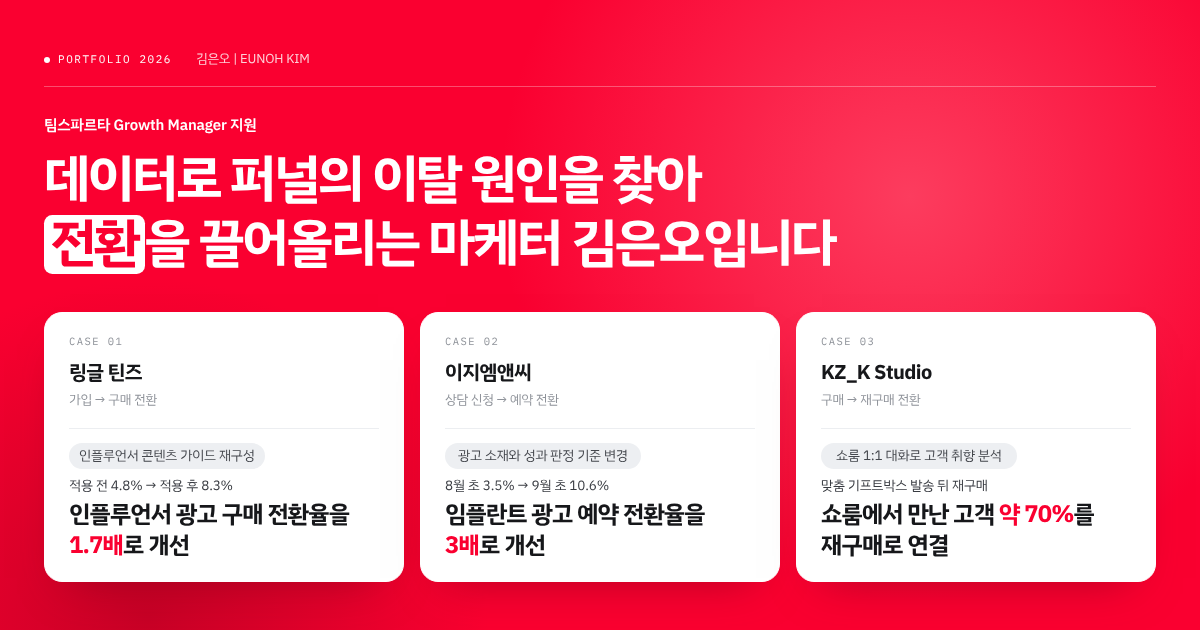
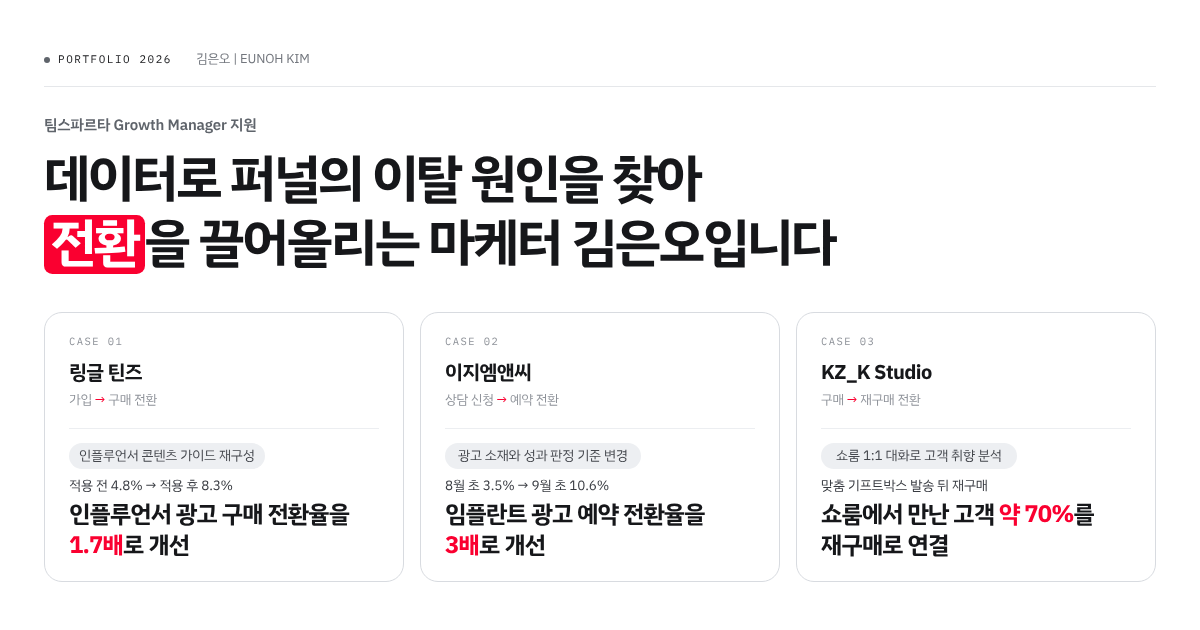
팀스파르타 포폴 색 정리: 하이라이트 변수 --hl 한 곳, 나머지 중립
- --hl(#FA0030, 첨부 로고 값) 새로 만들고 5곳에만 사용: 표지 '전환' 마커, 표지 타일 큰 숫자와 퍼널 줄 화살표, A장 퍼널 끊긴 구간, B장 결과 큰 숫자, 전후 막대 '개선 후'
- --blue와 --blue-deep은 #16171a, --blue-tint는 #f5f6f8, .obs 구분선 회색
- 표지와 마지막 장 흰 바탕, 빛 번짐 삭제, 알약과 타일과 연락처 카드는 연한 회색 테두리, 이메일 복사 버튼 검정
- 진행 바, 섹션 번호, 어바웃 점 진한 회색, CASE 칩 흰 바탕 검정 글씨, 스테퍼 H 원 회색, To-be 칸 검정 1.5px, Why 알약 회색, 구조도 새 판정 검정 굵게
- Projects 제목, CASE 02 가설 마침표, 마지막 장 제목 줄 삭제, og.png 다시 뽑음

Claude-Session: https://claude.ai/code/session_013smscFGWWBPRpsfkpqHfav

diff --git a/portfolio-teamsparta/index.html b/portfolio-teamsparta/index.html
@@ -20,7 +20,11 @@
 :root{
   color-scheme: light;
   --bg:#ffffff; --ink:#0d0e10; --ink-2:#383b41; --mute:#72767d; --mute-2:#a4a8ae; --line:#e5e7ea; --soft:#f4f5f7; --soft-2:#eceef1;
-  --blue:#fa0030; --blue-deep:#d1002a; --blue-tint:#fff1f3;
+  /* 하이라이트: 팀스파르타 브랜드 레드(첨부 로고에서 뽑은 값). 다른 값으로 확정되면 이 한 줄만 바꾸기 */
+  --hl:#FA0030;
+  /* 예전 강조색 변수는 중립으로: 진한 글자색과 연한 회색 */
+  --blue:#16171a; --blue-deep:#16171a; --blue-tint:#f5f6f8;
+  --gray-d:#5f646b; --line-2:#d8dbe0;
   --sans:'IBM Plex Sans KR','Apple SD Gothic Neo','Noto Sans KR',system-ui,sans-serif;
   --serif:var(--sans); --it:var(--sans);
   --mono:'IBM Plex Mono',ui-monospace,SFMono-Regular,Menlo,monospace;
@@ -50,7 +54,7 @@ section[id],article[id]{scroll-margin-top:calc(var(--bar) + 12px)}
 .nav a:hover,.nav a.on{color:var(--ink)}
 .nav a::after{content:"";position:absolute;left:0;right:0;bottom:-1px;height:2px;background:var(--blue);transform:scaleX(0);transform-origin:0 50%;transition:transform .25s}
 .nav a.on::after{transform:scaleX(1)}
-.progress{position:absolute;left:0;right:0;bottom:-1px;height:2px;background:var(--blue);transform-origin:0 50%;transform:scaleX(0)}
+.progress{position:absolute;left:0;right:0;bottom:-1px;height:2px;background:var(--gray-d);transform-origin:0 50%;transform:scaleX(0)}
 
 /* hero */
 .hero{padding:calc(var(--bar) + clamp(28px,4vw,56px)) 0 clamp(56px,7vw,96px)}
@@ -100,7 +104,7 @@ section[id],article[id]{scroll-margin-top:calc(var(--bar) + 12px)}
 /* ───────── about ───────── */
 .about-grid{display:grid;grid-template-columns:minmax(0,7fr) minmax(0,5fr);gap:clamp(28px,4vw,64px)}
 .ab-h{display:flex;align-items:center;gap:8px;font-size:14px;font-weight:700;letter-spacing:-.01em;margin-bottom:14px}
-.ab-h::before{content:"";width:6px;height:6px;border-radius:50%;background:var(--blue)}
+.ab-h::before{content:"";width:6px;height:6px;border-radius:50%;background:var(--gray-d)}
 .core{display:grid;gap:12px}
 .core>li{padding:18px 20px;border-radius:14px;background:var(--soft)}
 .core-t{display:flex;flex-wrap:wrap;align-items:baseline;gap:4px 10px;font-weight:600;font-size:16.5px;line-height:1.45;color:var(--blue-deep);letter-spacing:-.02em}
@@ -221,10 +225,10 @@ figcaption{margin-top:7px;font-size:12px;color:var(--mute);line-height:1.4}
 .flow .hub{padding:14px 8px;border-radius:10px;background:var(--ink);color:#fff;text-align:center;font-size:13px;font-weight:600;line-height:1.35}
 .flow .funnel{display:grid;grid-template-columns:repeat(3,1fr);gap:5px;text-align:center}
 .flow .funnel span{padding:7px 2px;border-radius:8px;font-size:12.5px;background:var(--soft)}
-.flow .funnel span.new{background:var(--blue-tint);color:var(--blue-deep);font-weight:600}
+.flow .funnel span.new{background:var(--soft);color:#16171a;font-weight:700}
 .flow .judge{display:grid;grid-template-columns:1fr 2fr;gap:5px;margin-top:6px;text-align:center;font-size:11.5px;color:var(--mute)}
 .flow .judge span{border-top:1.5px solid var(--mute-2);padding-top:4px}
-.flow .judge span.new{border-color:var(--blue);color:var(--blue-deep);font-weight:600}
+.flow .judge span.new{border-color:#16171a;color:#16171a;font-weight:700}
 /* 결과 */
 .r-pre{font-size:16px;font-weight:500;line-height:1.5;color:var(--ink-2)}
 .r-num{display:flex;align-items:baseline;flex-wrap:wrap;gap:0 .16em;color:var(--blue);font-family:var(--serif);font-weight:400;font-size:clamp(46px,4.6vw,66px);line-height:1.02;letter-spacing:-.05em;margin-top:4px;transform-origin:0 100%;will-change:transform}
@@ -283,7 +287,7 @@ figcaption{margin-top:7px;font-size:12px;color:var(--mute);line-height:1.4}
 .obs{display:grid;gap:6px;margin-top:10px;counter-reset:ob}
 .obs li{position:relative;padding-left:24px;font-size:13.5px;line-height:1.5;color:var(--ink-2)}
 .obs li::before{counter-increment:ob;content:counter(ob);position:absolute;left:0;top:.15em;width:17px;height:17px;border-radius:50%;background:#fff;color:var(--blue-deep);font-size:11px;font-weight:700;line-height:17px;text-align:center}
-.obs+.hyp-t{margin-top:12px;padding-top:12px;border-top:1px solid rgba(250,0,48,.18)}
+.obs+.hyp-t{margin-top:12px;padding-top:12px;border-top:1px solid rgba(22,23,26,.14)}
 .loop{margin-top:14px;padding:12px 14px 14px;border-radius:12px;border:1px solid var(--line)}
 .loop-h{display:block;margin-bottom:9px;font-size:12.5px;font-weight:600;color:var(--mute)}
 .loop-s{display:grid;grid-template-columns:repeat(4,minmax(0,1fr));gap:18px}
@@ -306,7 +310,7 @@ figcaption{margin-top:7px;font-size:12px;color:var(--mute);line-height:1.4}
 /* sans overrides for reused blocks */
 .sec-head{border-bottom:1px solid var(--ink)}
 .kicker{gap:10px}
-.kicker b{font-family:var(--mono);font-style:normal;font-weight:500;font-size:13px;letter-spacing:.06em;color:var(--blue)}
+.kicker b{font-family:var(--mono);font-style:normal;font-weight:500;font-size:13px;letter-spacing:.06em;color:var(--gray-d)}
 .kicker .mono{color:var(--ink-2)}
 .sec-title{font-weight:700;letter-spacing:-.04em}
 .sec-head.one .sec-title{font-weight:700}
@@ -365,30 +369,28 @@ figcaption{margin-top:7px;font-size:12px;color:var(--mute);line-height:1.4}
   html{scroll-behavior:auto}
   .px,.r-num,.hi-num{transform:none!important}
 }
-/* Hero: 팀스파르타 레드 #FA0030 바탕 */
-.hero{--sp-blue:#fa0030;--sp-navy:#16171a;--sp-mute:#8e9299;position:relative;overflow:hidden;background:var(--sp-blue);color:#fff}
-.hero::before,.hero::after{content:"";position:absolute;border-radius:50%;pointer-events:none}
-.hero::before{right:-10%;top:-34%;width:min(820px,76vw);aspect-ratio:1;background:radial-gradient(closest-side,rgba(255,120,140,.5),rgba(255,120,140,0))}
-.hero::after{left:-16%;bottom:-52%;width:min(680px,64vw);aspect-ratio:1;background:radial-gradient(closest-side,rgba(150,0,28,.5),rgba(150,0,28,0))}
+/* Hero: 흰 바탕, 진한 글자. --sp-blue는 '전환' 마커에만 쓰고 값은 --hl */
+.hero{--sp-blue:var(--hl);--sp-navy:#16171a;--sp-mute:#8e9299;position:relative;overflow:hidden;background:#fff;color:#16171a}
 .hero .wrap{position:relative;z-index:1}
-.hero .hero-meta{color:rgba(255,255,255,.82);border-bottom-color:rgba(255,255,255,.3)}
-.hero .hero-meta .mono{color:#fff}
-.hero .dot{background:#fff}
-.hero .site-link{border-color:#fff;background:#fff;color:var(--sp-blue)}
+.hero .hero-meta{color:var(--mute);border-bottom-color:var(--line)}
+.hero .hero-meta .mono{color:#16171a}
+.hero .dot{background:var(--gray-d)}
+.hero .site-link{border-color:var(--line-2);background:#fff;color:#16171a}
 .hero .site-link:hover{background:var(--sp-navy);border-color:var(--sp-navy);color:#fff}
-.hero .hero-title{color:#fff}
-.hero .hero-title .hl{display:inline-block;color:var(--sp-blue);background:#fff;border-radius:.16em;padding:.03em .12em .07em;line-height:1.04}
-.hero .hi{background:#fff;border-color:#fff;color:var(--sp-navy);box-shadow:0 22px 44px -26px rgba(110,0,20,.55)}
-.hero .hi:hover{border-color:#fff;transform:translateY(-4px);box-shadow:0 28px 52px -24px rgba(110,0,20,.65)}
+.hero .hero-title{color:#16171a}
+.hero .hero-title .hl{display:inline-block;color:#fff;background:var(--sp-blue);border-radius:.16em;padding:.03em .12em .07em;line-height:1.04}
+.hero .hi{background:#fff;border-color:var(--line-2);color:var(--sp-navy);box-shadow:none}
+.hero .hi:hover{border-color:#b4b8bf;transform:translateY(-4px);box-shadow:0 18px 36px -24px rgba(12,13,15,.28)}
 .hero .hi .mono,.hero .hi-tag,.hero .hi-go{color:var(--sp-mute)}
 .hero .hi-res{border-top-color:#eceef1}
 .hero .hi-lb{color:var(--sp-navy)}
 .hero .hi-num{color:var(--sp-navy)}
-.hero .hi-num em{font-style:normal;color:var(--sp-blue)}
+.hero .hi-num em{font-style:normal;color:var(--hl)}
+.hero .hi-tag .hi-ar{color:var(--hl)}
 .hero .hi-num .ln{white-space:nowrap}
 /* 표지: 지원 직무 라벨, 길어진 타일 문구 */
 .hero .hero-meta{margin-bottom:clamp(20px,2.3vw,32px)}
-.hero .hero-role{margin:0 0 clamp(10px,1vw,14px);font-size:clamp(14px,1.15vw,16px);font-weight:600;line-height:1.6;color:#fff;letter-spacing:-.01em}
+.hero .hero-role{margin:0 0 clamp(10px,1vw,14px);font-size:clamp(14px,1.15vw,16px);font-weight:600;line-height:1.6;color:var(--gray-d);letter-spacing:-.01em}
 /* 큰 문장: 1줄 끝에서만 줄바꿈(두 줄 고정), 가장 긴 1줄이 타일에 들어가게 타일 폭 기준 크기, 세 타일 같은 크기 */
 .hero .hi-num{font-size:clamp(14px,7.7cqi,30px);line-height:1.3;letter-spacing:-.035em}
 @media screen and (max-width:380px){.hero .hero-title{font-size:8vw}}
@@ -466,7 +468,7 @@ figcaption{margin-top:7px;font-size:12px;color:var(--mute);line-height:1.4}
 /* 사례 장 3~10장: 사례마다 A장(문제), B장(전략과 결과). 헤더 바는 마리트 장표의 검은 바 모양 */
 .cs{position:relative;padding:clamp(56px,6vw,84px) 0;border-top:1px solid var(--line)}
 .cs-bar{display:flex;flex-wrap:wrap;align-items:center;gap:10px 16px;padding:14px 22px;border-radius:12px;background:#16171a;color:#fff}
-.cs-no{flex:none;padding:3px 10px;border-radius:6px;background:var(--blue);color:#fff;font-family:var(--mono);font-size:12.5px;font-weight:500;letter-spacing:.06em;line-height:1.5;white-space:nowrap}
+.cs-no{flex:none;padding:3px 10px;border-radius:6px;background:#fff;color:#16171a;font-family:var(--mono);font-size:12.5px;font-weight:500;letter-spacing:.06em;line-height:1.5;white-space:nowrap}
 .cs-title{flex:1 1 360px;min-width:0;font-size:clamp(18px,1.7vw,23px);font-weight:700;line-height:1.4;letter-spacing:-.035em;color:#fff}
 .cs-4p{display:flex;flex-wrap:wrap;gap:6px;margin-left:auto}
 .cs-4p li{padding:2px 10px;border-radius:999px;background:#edeff2;color:#44474d;font-size:12px;font-weight:500;line-height:1.6;white-space:nowrap}
@@ -478,11 +480,11 @@ figcaption{margin-top:7px;font-size:12px;color:var(--mute);line-height:1.4}
 /* 퍼널 한 줄: 끊긴 단계만 빨강 */
 .cs-funnel{display:flex;flex-wrap:wrap;justify-content:center;align-items:center;row-gap:10px;margin-top:clamp(20px,2.4vw,30px)}
 .cs-funnel .fs{padding:13px 28px;border-radius:14px;border:2px solid #d3d6db;background:#fff;font-size:20px;font-weight:700;line-height:1.4;letter-spacing:-.02em;color:var(--ink);white-space:nowrap}
-.cs-funnel .fs.x{border-color:var(--blue);background:var(--blue-tint);color:var(--blue-deep)}
+.cs-funnel .fs.x{border-color:var(--hl);background:#fff;color:var(--hl)}
 .cs-funnel .fa{position:relative;flex:none;width:clamp(36px,4.4vw,72px);height:0;margin:0 16px 0 12px;border-top:2.5px solid #b4b8bf}
 .cs-funnel .fa::after{content:"";position:absolute;right:-3px;top:-7.5px;width:12px;height:12px;border-top:2.5px solid #b4b8bf;border-right:2.5px solid #b4b8bf;transform:rotate(45deg)}
-.cs-funnel .fa.x{border-top:2.5px dashed var(--blue)}
-.cs-funnel .fa.x::after{border-color:var(--blue)}
+.cs-funnel .fa.x{border-top:2.5px dashed var(--hl)}
+.cs-funnel .fa.x::after{border-color:var(--hl)}
 /* 상자 4개 */
 .cs-boxes{display:grid;gap:12px;margin-top:clamp(20px,2.4vw,30px)}
 .bx{display:grid;grid-template-columns:clamp(190px,17vw,240px) minmax(0,1fr);gap:8px 28px;align-items:start;padding:18px 24px;border-radius:14px;border:1px solid var(--line);background:#fff}
@@ -497,7 +499,7 @@ figcaption{margin-top:7px;font-size:12px;color:var(--mute);line-height:1.4}
 .bx.q li::before{background:var(--blue)}
 /* ④ 문제 정의: 첫 줄 질문 굵게 */
 .bx-c{min-width:0}
-.bx-why{display:inline-block;margin-bottom:6px;padding:1px 10px;border-radius:999px;background:var(--blue-tint);color:var(--blue-deep);font-size:12.5px;font-weight:700;line-height:1.6;letter-spacing:.02em}
+.bx-why{display:inline-block;margin-bottom:6px;padding:1px 10px;border-radius:999px;background:#edeff2;color:#44474d;font-size:12.5px;font-weight:700;line-height:1.6;letter-spacing:.02em}
 .bx-q{margin-bottom:8px;font-size:17px;font-weight:700;line-height:1.5;letter-spacing:-.02em;color:var(--ink)}
 /* 채울 것, 확인 표시 */
 mark.fill{padding:1px 6px;border-radius:4px;background:#ffe45c;color:#3d3200;font-weight:600;-webkit-box-decoration-break:clone;box-decoration-break:clone}
@@ -547,7 +549,7 @@ mark.fill{padding:1px 6px;border-radius:4px;background:#ffe45c;color:#3d3200;fon
 .big{padding:4px 2px}
 .big+.big{padding-top:12px;border-top:1px solid var(--line)}
 .big-s{font-size:17px;font-weight:700;line-height:1.5;letter-spacing:-.02em;color:#16171a}
-.big-n{margin-top:2px;font-size:clamp(28px,2.6vw,36px);font-weight:700;line-height:1.25;letter-spacing:-.04em;color:var(--blue)}
+.big-n{margin-top:2px;font-size:clamp(28px,2.6vw,36px);font-weight:700;line-height:1.25;letter-spacing:-.04em;color:var(--hl)}
 .big-n em{font-style:normal;font-size:1.2em}
 .big-n .nw{white-space:nowrap}
 .big-n .d{color:#16171a}
@@ -555,7 +557,7 @@ mark.fill{padding:1px 6px;border-radius:4px;background:#ffe45c;color:#3d3200;fon
 .big-n mark.fill{font-size:15px;line-height:1.6;letter-spacing:-.01em}
 .big-sub{margin-top:4px;font-size:13px;color:var(--mute)}
 .big-t{margin-top:4px;font-size:clamp(20px,1.85vw,25px);font-weight:700;line-height:1.45;letter-spacing:-.035em;color:#16171a}
-.big-t em{font-style:normal;color:var(--blue)}
+.big-t em{font-style:normal;color:var(--hl)}
 .vbox{padding:14px 18px;border-radius:14px;border:1px solid var(--line);background:#fff}
 .vbox h5,.nx h5{margin-bottom:6px;font-size:14px;font-weight:700;letter-spacing:-.01em;color:var(--ink)}
 .vbox li{position:relative;padding:6px 0 6px 22px;border-top:1px dashed var(--line);font-size:14.5px;font-weight:600;line-height:1.5;color:var(--ink)}
@@ -596,7 +598,7 @@ mark.fill{padding:1px 6px;border-radius:4px;background:#ffe45c;color:#3d3200;fon
 .cmp-chip{grid-area:ca;justify-self:center;padding:2px 12px;border-radius:999px;background:#edeff2;color:#44474d;font-size:13px;font-weight:700;line-height:1.5;letter-spacing:.01em}
 .cmp-chip.to{grid-area:cb;background:var(--blue);color:#fff}
 .cmp-box{grid-area:ba;align-self:stretch;display:flex;align-items:center;justify-content:center;padding:13px 22px;border:2px solid #d3d6db;border-radius:14px;background:#fff;font-size:17px;font-weight:600;line-height:1.5;letter-spacing:-.02em;color:var(--ink-2);text-align:center}
-.cmp-box.to{grid-area:bb;border-color:var(--blue);color:var(--ink)}
+.cmp-box.to{grid-area:bb;border-color:#16171a;border-width:1.5px;color:var(--ink)}
 .cmp-arr{grid-area:ar;position:relative;display:block;width:56px;height:0;border-top:2.5px solid #b4b8bf}
 .cmp-arr::after{content:"";position:absolute;right:-2px;top:-7.5px;width:12px;height:12px;border-top:2.5px solid #b4b8bf;border-right:2.5px solid #b4b8bf;transform:rotate(45deg)}
 /* 정성 성과 칩 */
@@ -620,13 +622,13 @@ mark.fill{padding:1px 6px;border-radius:4px;background:#ffe45c;color:#3d3200;fon
 .cs-steps .bx[data-step="1"]::before{top:50%}
 .cs-steps .cs-hyp[data-step]::before{bottom:50%}
 .cs-steps [data-step]::after{content:attr(data-step);position:absolute;left:-52px;top:50%;z-index:1;width:32px;height:32px;margin-top:-16px;border-radius:50%;background:#e6e8eb;color:#5f646b;font-family:var(--sans);font-size:15px;font-weight:700;line-height:32px;text-align:center}
-.cs-steps .cs-hyp[data-step]::after{background:var(--blue);color:#fff}
+.cs-steps .cs-hyp[data-step]::after{background:#e6e8eb;color:#5f646b}
 /* 3. B장 전후 비교 막대: 검증 상자 안, 기존 회색, 개선 후 빨강 */
 .cmpbar{margin-top:8px;padding-top:10px;border-top:1px dashed var(--line)}
 .cb-lg{display:flex;gap:14px;justify-content:flex-end;margin-bottom:6px;font-size:12px;color:var(--mute)}
 .cb-lg span{display:inline-flex;align-items:center;gap:5px}
 .cb-lg span::before{content:"";width:10px;height:10px;border-radius:2px;background:#c4c8ce}
-.cb-lg .r::before{background:var(--blue)}
+.cb-lg .r::before{background:var(--hl)}
 .cb-m{display:grid;grid-template-columns:96px minmax(0,1fr);gap:10px;align-items:center}
 .cb-m+.cb-m{margin-top:8px}
 .cb-l{font-size:13px;font-weight:600;line-height:1.3;color:var(--ink-2)}
@@ -634,9 +636,9 @@ mark.fill{padding:1px 6px;border-radius:4px;background:#ffe45c;color:#3d3200;fon
 .cb-bars{display:grid;gap:3px}
 .cb-r{display:flex;align-items:center;gap:6px}
 .cb-r i{display:block;flex:none;width:calc(var(--w) * .78);height:12px;border-radius:3px;background:#c4c8ce}
-.cb-r.r i{background:var(--blue)}
+.cb-r.r i{background:var(--hl)}
 .cb-r b{font-size:12.5px;font-weight:700;line-height:1;color:#6b7078;white-space:nowrap}
-.cb-r.r b{color:var(--blue-deep)}
+.cb-r.r b{color:var(--hl)}
 @media screen and (max-width:860px){
   .cs-steps{padding-left:40px}
   .cs-steps [data-step]::before{left:-28px}
@@ -667,28 +669,21 @@ mark.fill{padding:1px 6px;border-radius:4px;background:#ffe45c;color:#3d3200;fon
   .cb-m+.cb-m{margin-top:6px}
 }
 
-/* Contact: 첫 화면과 같은 팀스파르타 레드 #FA0030 바탕 */
-.closing{--sp-blue:#fa0030;--sp-navy:#16171a;--sp-mute:#8e9299;overflow:hidden;background:var(--sp-blue);color:#fff}
-.closing::before,.closing::after{content:"";position:absolute;border-radius:50%;pointer-events:none}
-.closing::before{right:-14%;top:-38%;width:min(760px,70vw);aspect-ratio:1;background:radial-gradient(closest-side,rgba(255,120,140,.5),rgba(255,120,140,0))}
-.closing::after{left:-18%;bottom:-55%;width:min(620px,60vw);aspect-ratio:1;background:radial-gradient(closest-side,rgba(150,0,28,.5),rgba(150,0,28,0))}
+/* Contact: 흰 바탕, 진한 글자 */
+.closing{--sp-navy:#16171a;--sp-mute:#8e9299;overflow:hidden;background:#fff;color:#16171a}
 .closing .wrap{position:relative;z-index:1}
-.closing .sec-head{border-bottom-color:rgba(255,255,255,.3)}
-.closing .kicker b{color:#fff}
-.closing .kicker .mono{color:rgba(255,255,255,.82)}
-.closing .sec-title{color:#fff}
-.closing .thanks p.t{color:rgba(255,255,255,.88)}
-.closing .thanks .sign{color:#fff}
+.closing .thanks p.t{color:#16171a}
+.closing .thanks .sign{color:#16171a}
 .closing .thanks{align-items:center;grid-template-columns:minmax(0,1.9fr) minmax(0,1fr)}
 /* 감사 문장: 어바웃 미 제목과 같은 크기, 두 문장은 줄을 나눔 */
-.closing .thanks p.t{font-size:clamp(22px,2.35vw,34px);font-weight:600;line-height:1.5;letter-spacing:-.035em;color:#fff}
+.closing .thanks p.t{font-size:clamp(22px,2.35vw,34px);font-weight:600;line-height:1.5;letter-spacing:-.035em;color:#16171a}
 .closing .thanks p.t .ln{display:block}
 .closing .thanks p.t .ln+.ln{margin-top:.25em}
 @media screen and (max-width:860px){.closing .thanks{grid-template-columns:minmax(0,1fr)}}
-.closing .contact-card{background:#fff;color:var(--sp-navy);border-radius:22px 22px 22px 6px;box-shadow:0 28px 56px -28px rgba(110,0,20,.6)}
+.closing .contact-card{background:#fff;color:var(--sp-navy);border:1px solid var(--line-2);border-radius:22px 22px 22px 6px;box-shadow:none}
 .closing .contact-card .mono{color:var(--sp-mute)}
-.closing .contact-card .copy{background:var(--sp-blue);color:#fff;font-weight:600}
-.closing .contact-card .copy:hover,.closing .contact-card .copy.done{background:var(--sp-navy);color:#fff}
+.closing .contact-card .copy{background:#16171a;color:#fff;font-weight:600}
+.closing .contact-card .copy:hover,.closing .contact-card .copy.done{background:#383b41;color:#fff}
 .closing .contact-card .cc-phone{border-top-color:#eceef1}
 </style>
 </head>
@@ -727,19 +722,19 @@ mark.fill{padding:1px 6px;border-radius:4px;background:#ffe45c;color:#3d3200;fon
       <a class="hi" href="#case-1" data-case="1">
         <span class="mono">Case 01</span>
         <span class="hi-name">링글 틴즈</span>
-        <span class="hi-tag">가입 → 구매 전환</span>
+        <span class="hi-tag">가입 <span class="hi-ar">→</span> 구매 전환</span>
         <span class="hi-res"><span class="hi-lb"><span class="hi-chip">인플루언서 콘텐츠 가이드 재구성</span><span class="hi-txt"><span class="seg">적용 전 4.8%</span> <span class="seg">→ 적용 후 8.3%</span></span></span><span class="hi-num" data-grow><span class="ln">인플루언서 광고 구매 전환율을</span><br><span class="ln"><em>1.7배</em>로 개선</span></span></span>
       </a>
       <a class="hi" href="#case-3" data-case="3">
         <span class="mono">Case 02</span>
         <span class="hi-name">이지엠앤씨</span>
-        <span class="hi-tag">상담 신청 → 예약 전환</span>
+        <span class="hi-tag">상담 신청 <span class="hi-ar">→</span> 예약 전환</span>
         <span class="hi-res"><span class="hi-lb"><span class="hi-chip">광고 소재와 성과 판정 기준 변경</span><span class="hi-txt"><span class="seg">8월 초 3.5%</span> <span class="seg">→ 9월 초 10.6%</span></span></span><span class="hi-num" data-grow><span class="ln">임플란트 광고 예약 전환율을</span><br><span class="ln"><em>3배</em>로 개선</span></span></span>
       </a>
       <a class="hi" href="#case-2" data-case="2">
         <span class="mono">Case 03</span>
         <span class="hi-name">KZ_K Studio</span>
-        <span class="hi-tag">구매 → 재구매 전환</span>
+        <span class="hi-tag">구매 <span class="hi-ar">→</span> 재구매 전환</span>
         <span class="hi-res"><span class="hi-lb"><span class="hi-chip">쇼룸 1:1 대화로 고객 취향 분석</span><span class="hi-txt">맞춤 기프트박스 발송 뒤 재구매</span></span><span class="hi-num" data-grow><span class="ln">쇼룸에서 만난 고객 <em>약 70%</em>를</span><br><span class="ln">재구매로 연결</span></span></span>
       </a>
     </nav>
@@ -834,7 +829,7 @@ mark.fill{padding:1px 6px;border-radius:4px;background:#ffe45c;color:#3d3200;fon
   <div class="wrap">
     <header class="sec-head one">
       <div class="kicker"><b>02</b><span class="mono">Projects</span></div>
-      <h2 class="sec-title">결제, 리텐션, 예약을 끌어올린 <span style="white-space:nowrap">세 개의 케이스</span></h2>
+      <h2 class="sec-title">구매, 예약, 재구매를 끌어올린 <span style="white-space:nowrap">세 개의 케이스</span></h2>
     </header>
   </div>
 
@@ -932,7 +927,7 @@ mark.fill{padding:1px 6px;border-radius:4px;background:#ffe45c;color:#3d3200;fon
           <li class="bx" data-step="3"><h4><b>③</b>원인 분석</h4><ul><li>상담 기록 163건 전수 분석: 혜택만 보고 신청한 허수가 8월 초 신청의 절반인 50.5%</li><li>지원금 안내 랜딩은 '신청한 적 없다' 응답이 11.2%, 가격 공개 랜딩은 0.9%</li><li>광고로 재유입됐지만 기존 환자로 분류돼 광고 성과에서 누락되던 예약과 내원을 광고 리드 DB와 매칭해 집계, 광고 성과가 실제보다 낮게 잡히던 왜곡을 보정</li></ul></li>
           <li class="bx q" data-step="4"><h4><b>④</b>문제 정의</h4><div class="bx-c"><p class="bx-q">왜 신청은 늘고 예약은 무너졌나</p><ul><li>광고 성과를 DB 단가로 판정해 소재 ON/OFF를 결정하니, 지원금 소구 소재가 계속 ON으로 유지됐고 시 지원금으로 오인한 허수 신청이 늘어도 판정에 드러나지 않았음</li><li>임플란트는 의료진과 가격을 보고 결정하는데 광고는 둘 다 보여 주지 않았음</li></ul></div></li>
         </ol>
-        <div class="cs-hyp" data-step="H"><span class="hyp-l">가설</span><p>신청 전에 핵심 USP인 의료진 이력과 가격을 보여 주면 허수는 줄고 예약은 늘 것.<small>검증은 같은 기간 기존 소재와 허수, 예약, 내원 비교</small></p>
+        <div class="cs-hyp" data-step="H"><span class="hyp-l">가설</span><p>신청 전에 핵심 USP인 의료진 이력과 가격을 보여 주면 허수는 줄고 예약은 늘 것<small>검증은 같은 기간 기존 소재와 허수, 예약, 내원 비교</small></p>
           <div class="cs-cmp">
             <span class="cmp-chip">As-is</span><span class="cmp-chip to">To-be</span>
             <p class="cmp-box">신청당 비용 기준 소재 판정, 지원금 소구 중심</p><i class="cmp-arr" aria-hidden="true"></i><p class="cmp-box to">예약과 내원 기준 판정, 의료진 이력과 가격 공개 소구</p>
@@ -1087,7 +1082,6 @@ mark.fill{padding:1px 6px;border-radius:4px;background:#ffe45c;color:#3d3200;fon
   <div class="wrap">
     <header class="sec-head one">
       <div class="kicker"><b>03</b><span class="mono">Contact</span></div>
-      <h2 class="sec-title">끝까지 봐 주셔서 감사합니다.</h2>
     </header>
     <div class="thanks">
       <div>
